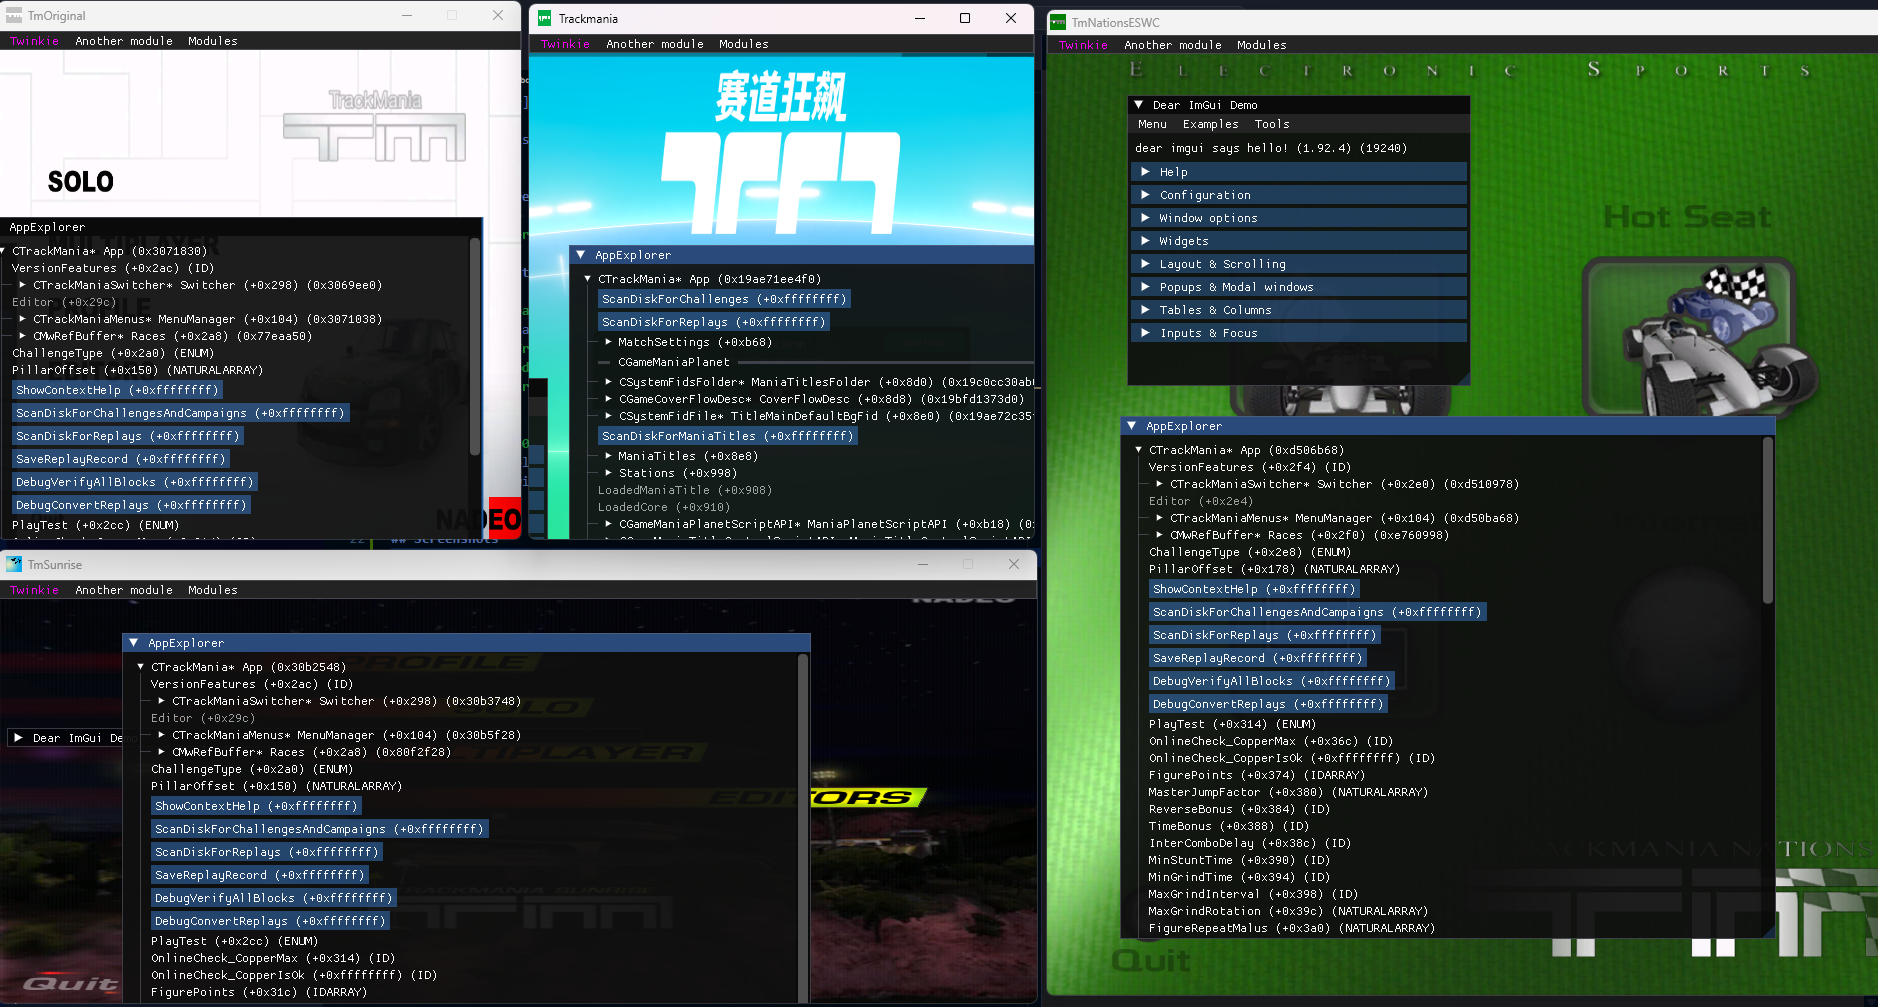
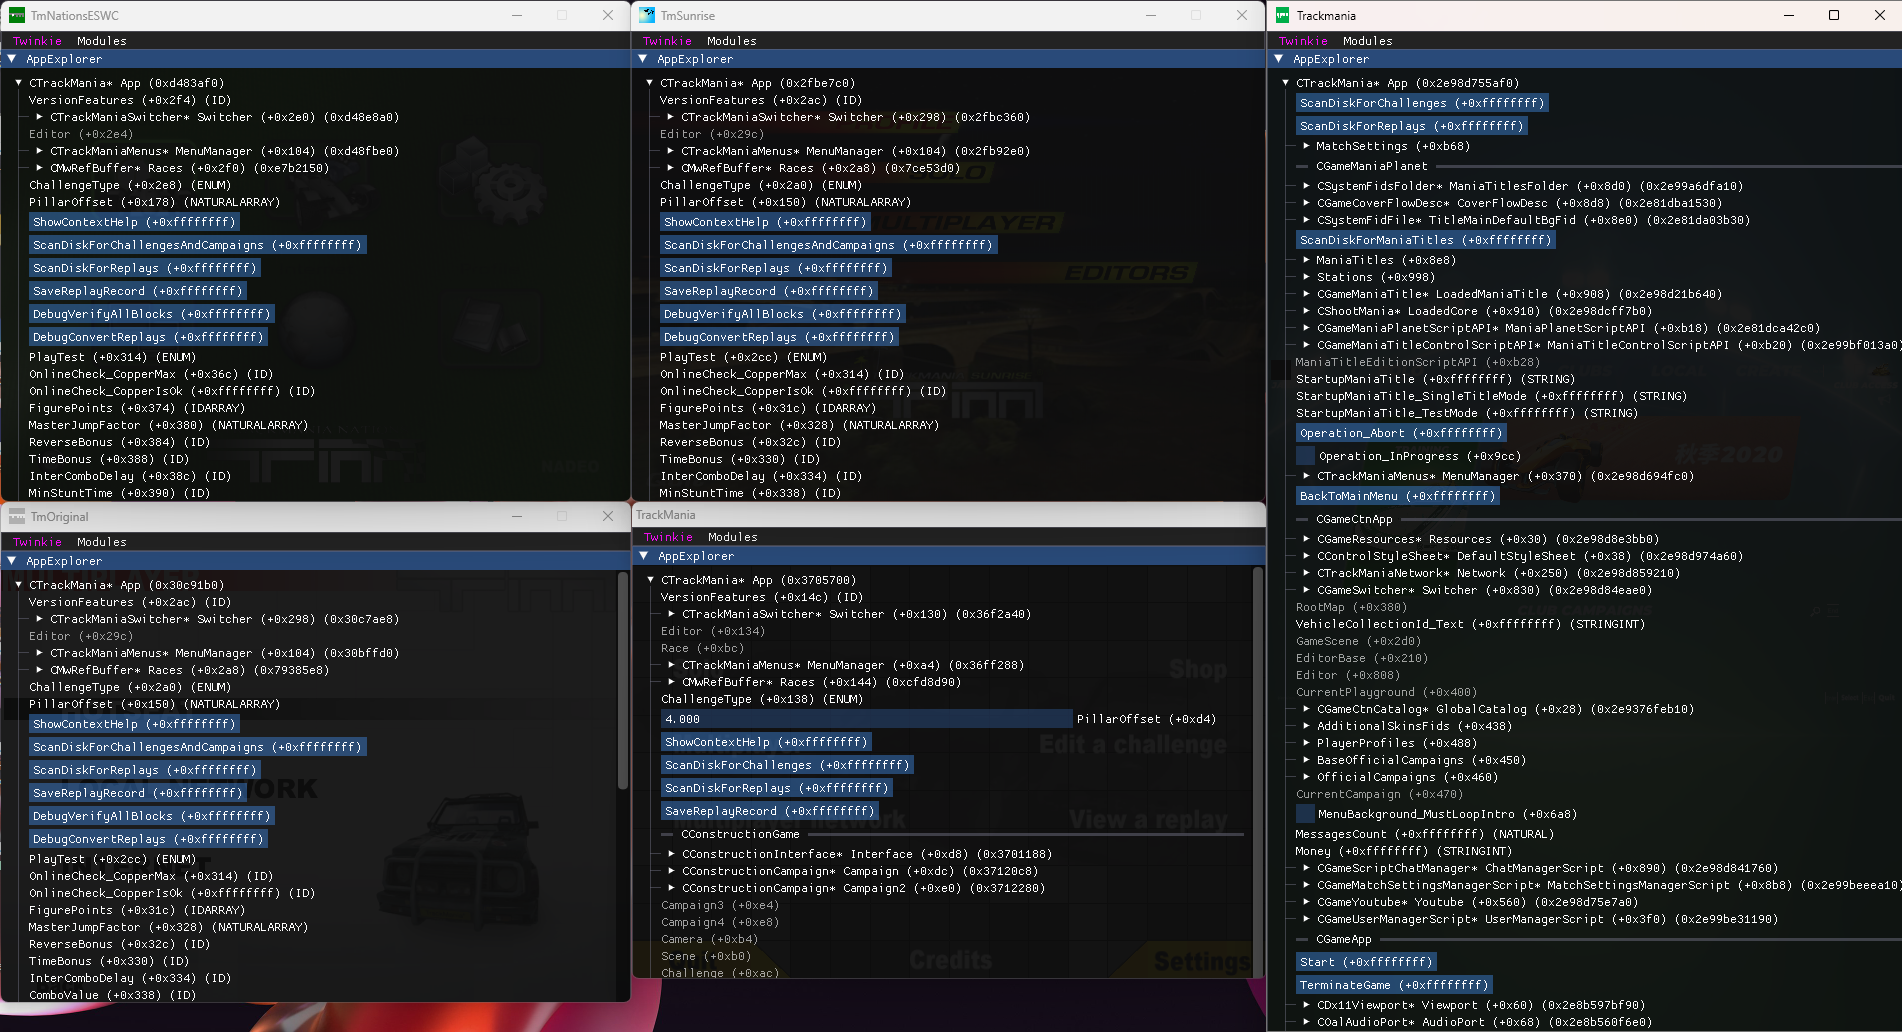
Add TM1.0 support

diff --git a/TwinkieX/Includes/Trackmania/TMTypes.h b/TwinkieX/Includes/Trackmania/TMTypes.h
@@ -152,10 +152,10 @@ struct CMwMemberInfo
 
 	enum eFlags 
 	{
-		READ = 0b00000001,
-		WRITE = 0b00000010,
-		U1 = 0b00000100,
-		U2 = 0b00001000,
+		GET = 0b00000001,
+		SET = 0b00000010,
+		ADD = 0b00000100,
+		SUB = 0b00001000,
 		VIRTUAL_GET = 0b00010000,
 		VIRTUAL_SET = 0b00100000,
 		VIRTUAL_ADD = 0b01000000,
@@ -314,10 +314,12 @@ struct CMwMemberInfo
 		ISO3ARRAY,
 		ISO3BUFFER,
 		ISO3BUFFERCAT,
+#ifndef TM1
 		ID,
 		IDARRAY,
 		IDBUFFER,
 		IDBUFFERCAT,
+#endif
 		NATURAL,
 		NATURALARRAY,
 		NATURALBUFFER,
@@ -328,6 +330,13 @@ struct CMwMemberInfo
 		REALBUFFER,
 		REALBUFFERCAT,
 		REALRANGE,
+#ifdef TM1
+		ID, 
+		IDARRAY,
+		IDBUFFER,
+		IDBUFFERCAT,
+#endif
+#ifndef TM1
 		STRING,
 		STRINGARRAY,
 		STRINGBUFFER,
@@ -336,6 +345,7 @@ struct CMwMemberInfo
 		STRINGINTARRAY,
 		STRINGINTBUFFER,
 		STRINGINTBUFFERCAT,
+#endif
 		VEC2,
 		VEC2ARRAY,
 		VEC2BUFFER,
@@ -357,10 +367,10 @@ struct CMwMemberInfo
 
 	enum eFlags
 	{
-		READ = 0b00000001,
-		WRITE = 0b00000010,
-		U1 = 0b00000100,
-		U2 = 0b00001000,
+		GET = 0b00000001,
+		SET = 0b00000010,
+		ADD = 0b00000100,
+		SUB = 0b00001000,
 		VIRTUAL_GET = 0b00010000,
 		VIRTUAL_SET = 0b00100000,
 		VIRTUAL_ADD = 0b01000000,
@@ -396,19 +406,22 @@ struct CMwClassInfo
 	ActionFn* vftable;
 
 	// Class ID
-	int ClassID;
+	uint32_t ClassID;
 
 	// Parent class' info, null if none
 	CMwClassInfo* ParentClassInfo;
 
-	int unknown0;
-	int unknown1;
+	uint32_t unknown0;
+	uint32_t unknown1;
 	
 	// Class name
 	char* ClassName;
 
 	// Next class info, usually has nothing to do with this class
 	CMwClassInfo* NextClassInfo;
+#ifdef TM1
+	uint32_t unknown2;
+#endif
 	// Pointer to the class' constructor
 	ActionFn CtorFn;
 

diff --git a/TwinkieX/Includes/Utils/Offsets.h b/TwinkieX/Includes/Utils/Offsets.h
@@ -53,20 +53,36 @@ __declspec(noinline) uintptr_t VirtualWrite(unsigned int Idx, uintptr_t This, ui
 #elif defined(TM1)
 
 // Globals
-#define O_APP 0x0
+
+// NOTE: For TM1.0, "APP" refers to the global object of type CMwNodMain*.
+#define O_APP 0x0097b108
+
+// NOTE: Null on purpose for TM1.0. Get the DirectX device from the viewport instead.
 #define O_D3DDEVICE 0x0
 
 // Offsets to members
-#define O_M_CTRACKMANIA_VIEWPORT 0
-#define O_M_CTRACKMANIA_INPUTPORT 0
 
-#define O_M_CINPUTPORT_CONNECTEDDEVICES 0
-#define O_M_CINPUTPORT_ISFOCUSED 0
+// Exclusive to TM1.0, since the app is not a global but a child of a global CMwNodMain*.
+#define O_M_CMWNODMAIN_APP 0x38
 
-#define O_M_CINPUTDEVICE_ISDISABLED 0x0
+// Exclusive to TM1.0, since the viewport is not a global but a child of a global CMwNodMain*.
+#define O_M_CMWNODMAIN_VIEWPORT 0x40
+
+// Exclusive to TM1.0, because the DirectX device is not a global.
+#define O_M_CVISIONVIEWPORTDX9_DEVICE 0x64C
+
+// NOTE: Null on purpose for TM1.0. Get the viewport from CMwNodMain* instead.
+#define O_M_CTRACKMANIA_VIEWPORT 0x0
+// NOTE: CTRACKMANIA here is inaccurate for TM1.0. The real type is CGameProcess*
+#define O_M_CTRACKMANIA_INPUTPORT 0x40
+
+#define O_M_CINPUTPORT_CONNECTEDDEVICES 0x28
+#define O_M_CINPUTPORT_ISFOCUSED 0x28 + 16
+
+#define O_M_CINPUTDEVICE_ISDISABLED 0x0 
 
 // Vtable indices
-#define O_V_MWCLASSINFO 0
+#define O_V_MWCLASSINFO 1
 #define O_V_PRESENT 17
 
 #elif defined(TMS)

diff --git a/TwinkieX/Twinkie/TwinkTrackmania/TwinkTrackmania.cpp b/TwinkieX/Twinkie/TwinkTrackmania/TwinkTrackmania.cpp
@@ -28,17 +28,29 @@ CMwClassInfo* TwinkTrackmania::GetNodClassInfo(uintptr_t Nod)
 
 uintptr_t TwinkTrackmania::GetApp()
 {
+#ifndef TM1
 	return ReadAddr(uintptr_t, this->ExeBaseAddr + O_APP);
+#else
+	return ReadAddr(uintptr_t, O_M_CMWNODMAIN_APP + O_APP);
+#endif
 }
 
 uintptr_t TwinkTrackmania::GetViewport()
 {
+#ifndef TM1
 	return ReadAddr(uintptr_t, GetApp() + O_M_CTRACKMANIA_VIEWPORT);
+#else
+	return ReadAddr(uintptr_t, O_M_CMWNODMAIN_VIEWPORT + O_APP);
+#endif
 }
 
 uintptr_t TwinkTrackmania::GetDirectXDevice()
 {
+#ifndef TM1
 	return ReadAddr(uintptr_t, this->ExeBaseAddr + O_D3DDEVICE);
+#else
+	return ReadAddr(uintptr_t, O_M_CVISIONVIEWPORTDX9_DEVICE + GetViewport());
+#endif
 }
 
 CInputPort* TwinkTrackmania::GetInputPort()

diff --git a/TwinkieX/Twinkie/TwinkUi/TwinkUi.cpp b/TwinkieX/Twinkie/TwinkUi/TwinkUi.cpp
@@ -62,8 +62,7 @@ __declspec(noinline) TwinkUi::TwinkUi(TwinkTrackmania& TrackmaniaMgr)
 	this->TrackmaniaMgr = &TrackmaniaMgr;
 
 	this->Modules = {
-		new AppExplorerModule(TrackmaniaMgr),
-		new AnotherModule(TrackmaniaMgr)
+		new AppExplorerModule(TrackmaniaMgr)
 	};
 }
 
@@ -497,8 +496,6 @@ void TwinkUi::Render()
 		Module->Render();
 		if (TwinkUiState::RenderUi) Module->RenderInterface();
 	}
-
-	if (TwinkUiState::RenderUi) ImGui::ShowDemoWindow();
 }
 
 // END Methods

diff --git a/TwinkieX/Includes/Twinkie/TwinkUi/TwinkUi.h b/TwinkieX/Includes/Twinkie/TwinkUi/TwinkUi.h
@@ -2,7 +2,6 @@
 
 // Modules
 #include <Modules/AppExplorerModule/AppExplorerModule.h>
-#include <Modules/AnotherModule/AnotherModule.h>
 
 #include <vector>
 

diff --git a/README.md b/README.md
@@ -24,7 +24,7 @@ A work-in-progress cross-game fork of Twinkie for TM1.0, TMS, TMSX, TMO, TMNESWC
 You are welcome to contribute to this project.
 
 ## Notes
-1. **TMS and TM1.0** are still **not supported**.
+1. **TMS** is still **not supported**.
 2. There is no release so far, you will have to build it on your own
 3. If you want TwinkieX to be injected on game boot, you will have to do that yourself.
 
